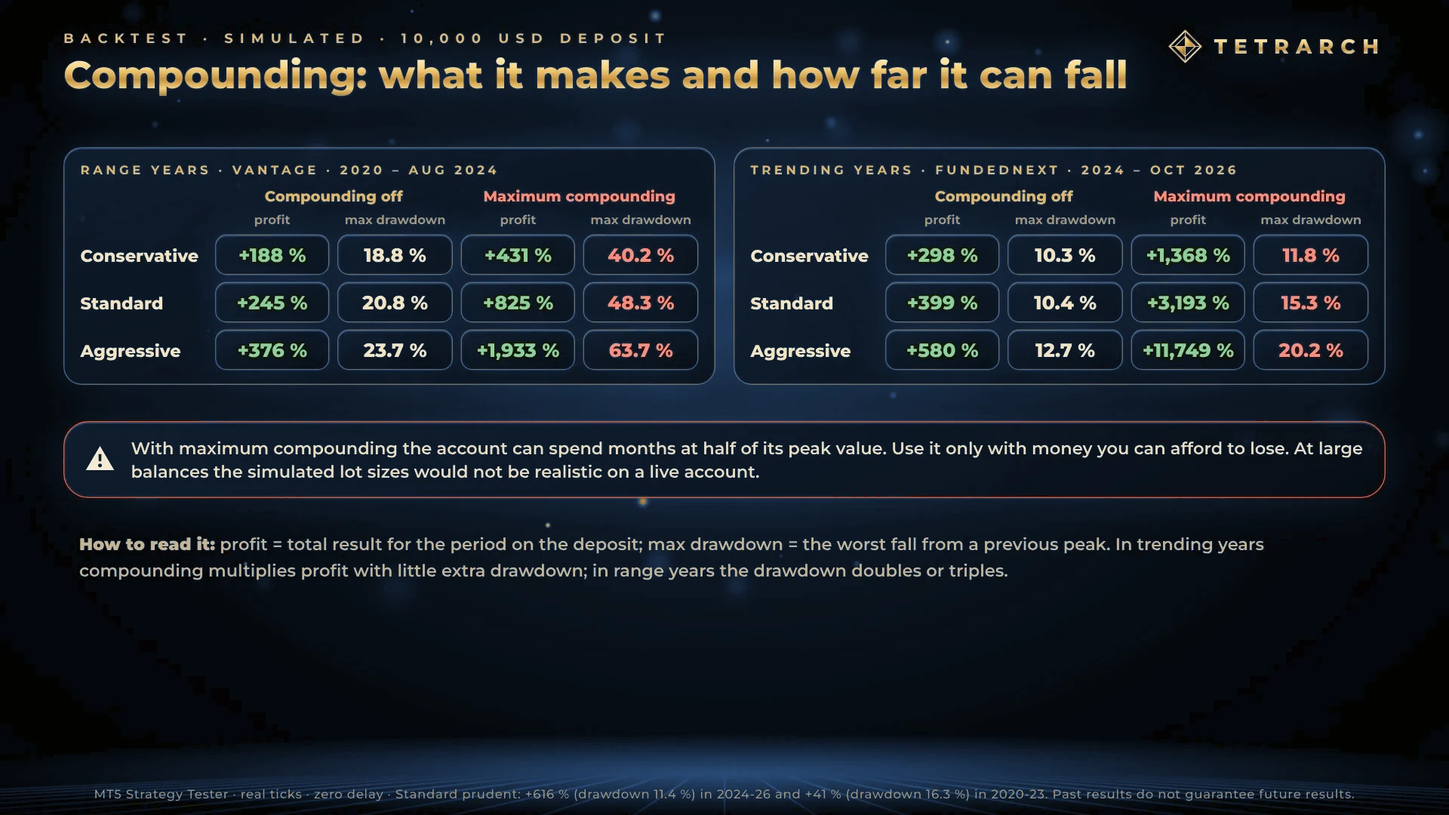
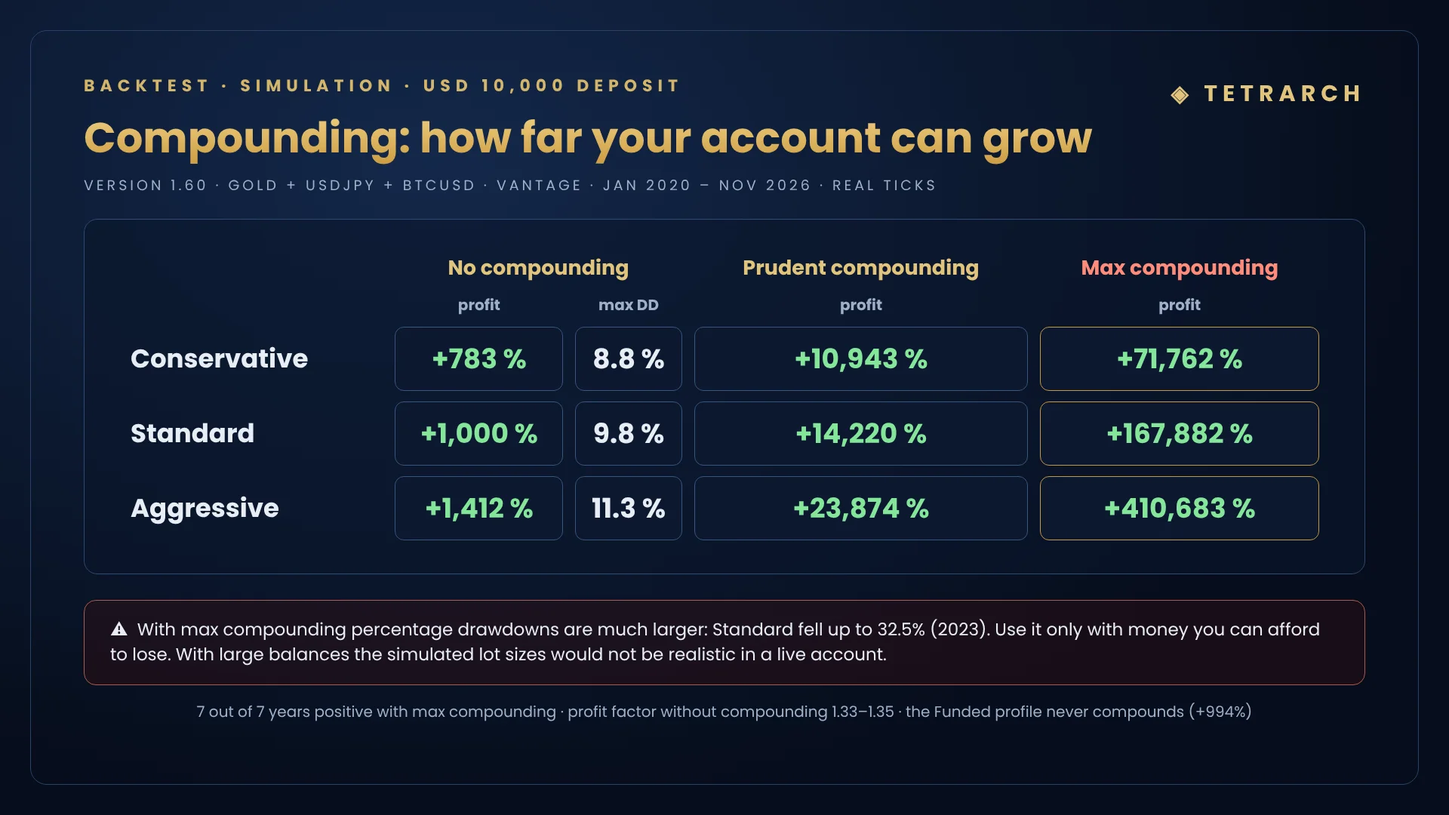
Web: imagen de interés compuesto con resultados 1.60
Claude-Session: https://claude.ai/code/session_01U5C84pqPQePsUARTQHAiew

diff --git a/index.html b/index.html
@@ -84,7 +84,7 @@ else if(h.indexOf('meli.la')>=0||h.indexOf('mercadolibre')>=0)fbq('track','Initi
 <div class="tcard"><strong data-es="Al instante" data-en="Instantly">Al instante</strong><span data-es="la clave llega a tu email con el instalador" data-en="the key arrives by email with the installer">la clave llega a tu email con el instalador</span></div>
 </div></div></div></section>
 <section class="section" id="product"><div class="wrap"><div class="section-head"><div class="eyebrow" data-es="UN SOLO PRODUCTO" data-en="ONE INTEGRATED PRODUCT">UN SOLO PRODUCTO</div><h2 data-es="Diseñado como un <span class='gold'>sistema integrado</span>." data-en="Designed as <span class='gold'>one integrated system</span>.">Diseñado como un <span class="gold">sistema integrado</span>.</h2><p data-es="Cuatro estrategias en el oro y, desde la versión 1.60, dos sub-estrategias que aplican la lógica de rango de sesión a USDJPY y BTCUSD. Todas forman parte de una misma solución: el cliente elige un perfil de riesgo y el bot hace el resto." data-en="Four gold strategies and, since version 1.60, two sub-strategies that apply the session-range logic to USDJPY and BTCUSD. They all belong to one solution: the customer picks a risk profile and the EA does the rest.">Cuatro estrategias en el oro y, desde la versión 1.60, dos sub-estrategias que aplican la lógica de rango de sesión a USDJPY y BTCUSD. Todas forman parte de una misma solución: el cliente elige un perfil de riesgo y el bot hace el resto.</p></div><div class="feature-grid"><div><img class="feature-img" data-src-en="/img/img04.webp" data-src-es="/img/img05.webp" alt="Descripción general del funcionamiento integrado de Tetrarch"></div><div><h3 data-es="Una operativa integrada, distintos niveles de exposición" data-en="One integrated system, different levels of exposure">Una operativa integrada, distintos niveles de exposición</h3><ul class="bullets"><li data-es="Cuatro estrategias y dos sub-estrategias en un único EA: oro, USDJPY y BTCUSD." data-en="Four strategies and two sub-strategies in a single EA: gold, USDJPY and BTCUSD.">Cuatro estrategias y dos sub-estrategias en un único EA: oro, USDJPY y BTCUSD.</li><li data-es="Perfiles que ajustan el riesgo y los límites de pérdida." data-en="Profiles adjust risk and loss limits.">Perfiles que ajustan el riesgo y los límites de pérdida.</li><li data-es="Stop loss en cada operación; sin martingala ni grid, según la documentación del producto." data-en="Stop loss on every trade; no martingale or grid, according to the product documentation.">Stop loss en cada operación; sin martingala ni grid, según la documentación del producto.</li><li data-es="Resultados evaluados mediante backtests con ticks reales." data-en="Results evaluated through real-tick backtests.">Resultados evaluados mediante backtests con ticks reales.</li></ul><a class="btn secondary" href="#results" data-es="Consultar pruebas" data-en="Review tests">Consultar pruebas</a></div></div></div></section>
-<section class="section" id="profiles"><div class="wrap"><div class="section-head"><div class="eyebrow" data-es="ELEGÍ SEGÚN TU TOLERANCIA AL RIESGO" data-en="CHOOSE ACCORDING TO YOUR RISK TOLERANCE">ELEGÍ SEGÚN TU TOLERANCIA AL RIESGO</div><h2 data-es="Cuatro perfiles. <span class='gold'>El mismo sistema.</span>" data-en="Four profiles. <span class='gold'>The same system.</span>">Cuatro perfiles. <span class="gold">El mismo sistema.</span></h2><p data-es="Los perfiles utilizan las mismas estrategias y operaciones. Cambian el riesgo por operación y los límites de pérdida. Las cifras de riesgo son aproximadas; los resultados de cada tarjeta son backtests anteriores a la versión 1.60." data-en="All profiles use the same strategies and trades. Per-trade risk and loss limits change. Risk figures are approximate; the results on each card are backtests prior to version 1.60.">Los perfiles utilizan las mismas estrategias y operaciones. Cambian el riesgo por operación y los límites de pérdida. Las cifras de riesgo son aproximadas; los resultados de cada tarjeta son backtests anteriores a la versión 1.60.</p></div><div class="grid4"><article class="card"><span class="pill red" data-es="Mayor riesgo" data-en="Higher risk">Mayor riesgo</span><h3 data-es="Arriesgado" data-en="Aggressive">Arriesgado</h3><div class="metric">≈ 2,25%</div><div class="small-label" data-es="Riesgo base por operación" data-en="Base risk per trade">Riesgo base por operación</div><p data-es="Límite diario: 4,5%. Puede tener caídas más profundas y prolongadas." data-en="Daily limit: 4.5%. May experience deeper and longer drawdowns.">Límite diario: 4,5%. Puede tener caídas más profundas y prolongadas.</p><div class="small-label" data-es="Backtest ene–ago 2026 · Vantage" data-en="Backtest Jan–Aug 2026 · Vantage">Backtest ene–ago 2026 · Vantage</div><p><strong class="gold">+33.631 USD</strong> · PF 1,91 · DD máx. 15,8%</p></article><article class="card"><span class="pill" data-es="Perfil base" data-en="Baseline profile">Perfil base</span><h3 data-es="Estándar" data-en="Standard">Estándar</h3><div class="metric">≈ 1,5%</div><div class="small-label" data-es="Riesgo base por operación" data-en="Base risk per trade">Riesgo base por operación</div><p data-es="Límite diario: 3%. Perfil por defecto y usado en los backtests largos." data-en="Daily limit: 3%. Default profile used in long backtests.">Límite diario: 3%. Perfil por defecto y usado en los backtests largos.</p><div class="small-label" data-es="Backtest ene–ago 2026 · Libertex" data-en="Backtest Jan–Aug 2026 · Libertex">Backtest ene–ago 2026 · Libertex</div><p><strong class="gold">+22.056 USD</strong> · PF 1,94 · DD máx. 11,2%</p></article><article class="card"><span class="pill green" data-es="Menor riesgo" data-en="Lower risk">Menor riesgo</span><h3 data-es="Conservador" data-en="Conservative">Conservador</h3><div class="metric">≈ 1,1%</div><div class="small-label" data-es="Riesgo base por operación" data-en="Base risk per trade">Riesgo base por operación</div><p data-es="Límite diario: 2,25%. Para quienes priorizan caídas más pequeñas." data-en="Daily limit: 2.25%. For users who prioritize smaller drawdowns.">Límite diario: 2,25%. Para quienes priorizan caídas más pequeñas.</p><div class="small-label" data-es="Backtest ene–ago 2026 · Vantage" data-en="Backtest Jan–Aug 2026 · Vantage">Backtest ene–ago 2026 · Vantage</div><p><strong class="gold">+15.083 USD</strong> · PF 1,84 · DD máx. 7,0%</p></article><article class="card"><span class="pill" data-es="Para cuentas de fondeo" data-en="For funded accounts">Para cuentas de fondeo</span><h3 data-es="Fondeo" data-en="Funded account">Fondeo</h3><div class="metric">≈ 0,6%</div><div class="small-label" data-es="Riesgo inicial por operación" data-en="Initial risk per trade">Riesgo inicial por operación</div><p data-es="Límite diario propio: 2%. Freno total: 7,5%, pensado para reglas de pérdida total del 8%." data-en="Own daily limit: 2%. Total stop: 7.5%, designed for an 8% maximum-loss rule.">Límite diario propio: 2%. Freno total: 7,5%, pensado para reglas de pérdida total del 8%.</p><div class="small-label" data-es="Simulaciones de primer cobro" data-en="First-payout simulations">Simulaciones de primer cobro</div><p><strong class="gold">18/18</strong> <span data-es="FundedNext 2024–2026 llegaron al primer cobro simulado" data-en="FundedNext 2024–2026 reached the simulated first payout">FundedNext 2024–2026 llegaron al primer cobro simulado</span></p></article></div><div class="compound-block"><div class="eyebrow" data-es="INTERÉS COMPUESTO · DESDE LA VERSIÓN 1.47" data-en="COMPOUNDING · SINCE VERSION 1.47">INTERÉS COMPUESTO · DESDE LA VERSIÓN 1.47</div><h3 class="compound-title" data-es="Interés compuesto <span class='gold'>opcional</span>" data-en="Optional <span class='gold'>compounding</span>">Interés compuesto <span class="gold">opcional</span></h3><p class="compound-lead" data-es="Tres modos —Apagado, Prudente y Máximo— para los perfiles Conservador, Estándar y Arriesgado. El perfil Fondeo no cambia." data-en="Three modes —Off, Prudent and Maximum— for the Conservative, Standard and Aggressive profiles. The Funded profile does not change.">Tres modos —Apagado, Prudente y Máximo— para los perfiles Conservador, Estándar y Arriesgado. El perfil Fondeo no cambia.</p><div class="compound-grid"><article class="result"><a class="zoom-link" data-zoom href="/img/perfiles-es.webp" target="_blank" rel="noopener"><img data-src-es="/img/perfiles-es.webp" data-src-en="/img/perfiles-en.webp" width="1920" height="1080" loading="lazy" alt="Tabla de perfiles de Tetrarch (Conservador, Estándar, Arriesgado y Fondeo) y modos de interés compuesto: Apagado, Prudente y Máximo"></a></article><article class="result"><a class="zoom-link" data-zoom href="/img/compuesto-es.webp" target="_blank" rel="noopener"><img data-src-es="/img/compuesto-es.webp" data-src-en="/img/compuesto-en.webp" width="1920" height="1080" loading="lazy" alt="Backtests con y sin interés compuesto por perfil: ganancia y caída máxima en años de rango y de tendencia"></a><div class="result-body"><p data-es="Backtests simulados en el Probador de estrategias de MetaTrader 5, con ticks reales y un depósito de 10.000 USD. Con interés compuesto Máximo se midieron caídas de entre el 40 % y el 65 % en años de rango. Úsalo solo con dinero que puedas perder." data-en="Simulated backtests in the MetaTrader 5 Strategy Tester, with real ticks and a USD 10,000 deposit. With Maximum compounding, drawdowns of 40% to 65% were measured in range years. Use it only with money you can afford to lose.">Backtests simulados en el Probador de estrategias de MetaTrader 5, con ticks reales y un depósito de 10.000 USD. Con interés compuesto Máximo se midieron caídas de entre el 40 % y el 65 % en años de rango. Úsalo solo con dinero que puedas perder.</p></div></article></div><div class="faq compound-notes"><details open><summary data-es="Qué cambió en la versión 1.60" data-en="What changed in version 1.60">Qué cambió en la versión 1.60</summary><ul class="bullets"><li data-es="Dos sub-estrategias nuevas: la estrategia de rango de sesión ahora opera también USDJPY y BTCUSD, además del oro. Sirven para sumar en otros mercados cuando el oro está lateral." data-en="Two new sub-strategies: the session-range strategy now also trades USDJPY and BTCUSD, besides gold. They add results in other markets when gold is ranging.">Dos sub-estrategias nuevas: la estrategia de rango de sesión ahora opera también USDJPY y BTCUSD, además del oro. Sirven para sumar en otros mercados cuando el oro está lateral.</li><li data-es="El bot encuentra solo el nombre del símbolo en cada broker (por ejemplo BTCUSD.sc o USDJPYc)." data-en="The EA finds each broker's symbol name by itself (for example BTCUSD.sc or USDJPYc).">El bot encuentra solo el nombre del símbolo en cada broker (por ejemplo BTCUSD.sc o USDJPYc).</li><li data-es="USDJPY y BTCUSD respetan el perfil y el modo de interés compuesto, igual que el oro." data-en="USDJPY and BTCUSD follow the profile and compounding mode, just like gold.">USDJPY y BTCUSD respetan el perfil y el modo de interés compuesto, igual que el oro.</li><li data-es="Backtests más rápidos en el Probador de estrategias de MetaTrader 5, con las mismas operaciones." data-en="Faster backtests in the MetaTrader 5 Strategy Tester, with the same trades.">Backtests más rápidos en el Probador de estrategias de MetaTrader 5, con las mismas operaciones.</li></ul></details><details><summary data-es="Qué cambió en las versiones 1.46 y 1.47" data-en="What changed in versions 1.46 and 1.47">Qué cambió en las versiones 1.46 y 1.47</summary><ul class="bullets"><li data-es="Nuevo ajuste «Interés compuesto» en los perfiles Conservador, Estándar y Arriesgado: Apagado (por defecto), Prudente o Máximo." data-en="New “Compound interest” setting for the Conservative, Standard and Aggressive profiles: Off (default), Prudent or Maximum.">Nuevo ajuste «Interés compuesto» en los perfiles Conservador, Estándar y Arriesgado: Apagado (por defecto), Prudente o Máximo.</li><li data-es="Con interés compuesto, el límite diario sube 1,5 veces de forma automática. El perfil Fondeo no cambia." data-en="With compounding on, the daily limit automatically rises 1.5×. The Funded profile does not change.">Con interés compuesto, el límite diario sube 1,5 veces de forma automática. El perfil Fondeo no cambia.</li><li data-es="Momentum: al llegar a 3 veces el riesgo, asegura la ganancia y deja correr la operación con un stop que sigue al precio (antes cerraba en 3R)." data-en="Momentum: at 3× the risk it locks in profit and lets the trade run with a trailing stop (it used to close at 3R).">Momentum: al llegar a 3 veces el riesgo, asegura la ganancia y deja correr la operación con un stop que sigue al precio (antes cerraba en 3R).</li><li data-es="El gráfico muestra el perfil, el modo de interés compuesto y el límite diario activos." data-en="The chart shows the active profile, compounding mode and daily limit.">El gráfico muestra el perfil, el modo de interés compuesto y el límite diario activos.</li><li data-es="Versión 1.47: el límite de pérdida diaria ya no se configura; se ajusta automáticamente según el perfil y el modo de interés compuesto. Solo elegís el perfil y el interés compuesto." data-en="Version 1.47: the daily loss limit is no longer an input; it is set automatically from the profile and the compounding mode. You only choose the profile and the compounding mode.">Versión 1.47: el límite de pérdida diaria ya no se configura; se ajusta automáticamente según el perfil y el modo de interés compuesto. Solo elegís el perfil y el interés compuesto.</li><li data-es="Si no cambiás el nuevo ajuste, el EA funciona como antes, salvo la mejora de Momentum." data-en="If you leave the new setting unchanged, the EA works as before, apart from the Momentum improvement.">Si no cambiás el nuevo ajuste, el EA funciona como antes, salvo la mejora de Momentum.</li></ul></details></div><p class="zoom-hint" data-es="Tocá una imagen para verla en tamaño completo." data-en="Tap an image to view it at full size.">Tocá una imagen para verla en tamaño completo.</p></div><div class="callout" data-es="Importante: las simulaciones de fondeo no garantizan aprobar una evaluación ni recibir pagos. Cada firma tiene sus propias reglas sobre EAs; verificá las condiciones antes de usarlo." data-en="Important: funded-account simulations do not guarantee passing an evaluation or receiving payouts. Each firm has its own EA rules; verify them before use.">Importante: las simulaciones de fondeo no garantizan aprobar una evaluación ni recibir pagos. Cada firma tiene sus propias reglas sobre EAs; verificá las condiciones antes de usarlo.</div></div></section>
+<section class="section" id="profiles"><div class="wrap"><div class="section-head"><div class="eyebrow" data-es="ELEGÍ SEGÚN TU TOLERANCIA AL RIESGO" data-en="CHOOSE ACCORDING TO YOUR RISK TOLERANCE">ELEGÍ SEGÚN TU TOLERANCIA AL RIESGO</div><h2 data-es="Cuatro perfiles. <span class='gold'>El mismo sistema.</span>" data-en="Four profiles. <span class='gold'>The same system.</span>">Cuatro perfiles. <span class="gold">El mismo sistema.</span></h2><p data-es="Los perfiles utilizan las mismas estrategias y operaciones. Cambian el riesgo por operación y los límites de pérdida. Las cifras de riesgo son aproximadas; los resultados de cada tarjeta son backtests anteriores a la versión 1.60." data-en="All profiles use the same strategies and trades. Per-trade risk and loss limits change. Risk figures are approximate; the results on each card are backtests prior to version 1.60.">Los perfiles utilizan las mismas estrategias y operaciones. Cambian el riesgo por operación y los límites de pérdida. Las cifras de riesgo son aproximadas; los resultados de cada tarjeta son backtests anteriores a la versión 1.60.</p></div><div class="grid4"><article class="card"><span class="pill red" data-es="Mayor riesgo" data-en="Higher risk">Mayor riesgo</span><h3 data-es="Arriesgado" data-en="Aggressive">Arriesgado</h3><div class="metric">≈ 2,25%</div><div class="small-label" data-es="Riesgo base por operación" data-en="Base risk per trade">Riesgo base por operación</div><p data-es="Límite diario: 4,5%. Puede tener caídas más profundas y prolongadas." data-en="Daily limit: 4.5%. May experience deeper and longer drawdowns.">Límite diario: 4,5%. Puede tener caídas más profundas y prolongadas.</p><div class="small-label" data-es="Backtest ene–ago 2026 · Vantage" data-en="Backtest Jan–Aug 2026 · Vantage">Backtest ene–ago 2026 · Vantage</div><p><strong class="gold">+33.631 USD</strong> · PF 1,91 · DD máx. 15,8%</p></article><article class="card"><span class="pill" data-es="Perfil base" data-en="Baseline profile">Perfil base</span><h3 data-es="Estándar" data-en="Standard">Estándar</h3><div class="metric">≈ 1,5%</div><div class="small-label" data-es="Riesgo base por operación" data-en="Base risk per trade">Riesgo base por operación</div><p data-es="Límite diario: 3%. Perfil por defecto y usado en los backtests largos." data-en="Daily limit: 3%. Default profile used in long backtests.">Límite diario: 3%. Perfil por defecto y usado en los backtests largos.</p><div class="small-label" data-es="Backtest ene–ago 2026 · Libertex" data-en="Backtest Jan–Aug 2026 · Libertex">Backtest ene–ago 2026 · Libertex</div><p><strong class="gold">+22.056 USD</strong> · PF 1,94 · DD máx. 11,2%</p></article><article class="card"><span class="pill green" data-es="Menor riesgo" data-en="Lower risk">Menor riesgo</span><h3 data-es="Conservador" data-en="Conservative">Conservador</h3><div class="metric">≈ 1,1%</div><div class="small-label" data-es="Riesgo base por operación" data-en="Base risk per trade">Riesgo base por operación</div><p data-es="Límite diario: 2,25%. Para quienes priorizan caídas más pequeñas." data-en="Daily limit: 2.25%. For users who prioritize smaller drawdowns.">Límite diario: 2,25%. Para quienes priorizan caídas más pequeñas.</p><div class="small-label" data-es="Backtest ene–ago 2026 · Vantage" data-en="Backtest Jan–Aug 2026 · Vantage">Backtest ene–ago 2026 · Vantage</div><p><strong class="gold">+15.083 USD</strong> · PF 1,84 · DD máx. 7,0%</p></article><article class="card"><span class="pill" data-es="Para cuentas de fondeo" data-en="For funded accounts">Para cuentas de fondeo</span><h3 data-es="Fondeo" data-en="Funded account">Fondeo</h3><div class="metric">≈ 0,6%</div><div class="small-label" data-es="Riesgo inicial por operación" data-en="Initial risk per trade">Riesgo inicial por operación</div><p data-es="Límite diario propio: 2%. Freno total: 7,5%, pensado para reglas de pérdida total del 8%." data-en="Own daily limit: 2%. Total stop: 7.5%, designed for an 8% maximum-loss rule.">Límite diario propio: 2%. Freno total: 7,5%, pensado para reglas de pérdida total del 8%.</p><div class="small-label" data-es="Simulaciones de primer cobro" data-en="First-payout simulations">Simulaciones de primer cobro</div><p><strong class="gold">18/18</strong> <span data-es="FundedNext 2024–2026 llegaron al primer cobro simulado" data-en="FundedNext 2024–2026 reached the simulated first payout">FundedNext 2024–2026 llegaron al primer cobro simulado</span></p></article></div><div class="compound-block"><div class="eyebrow" data-es="INTERÉS COMPUESTO · DESDE LA VERSIÓN 1.47" data-en="COMPOUNDING · SINCE VERSION 1.47">INTERÉS COMPUESTO · DESDE LA VERSIÓN 1.47</div><h3 class="compound-title" data-es="Interés compuesto <span class='gold'>opcional</span>" data-en="Optional <span class='gold'>compounding</span>">Interés compuesto <span class="gold">opcional</span></h3><p class="compound-lead" data-es="Tres modos —Apagado, Prudente y Máximo— para los perfiles Conservador, Estándar y Arriesgado. El perfil Fondeo no cambia." data-en="Three modes —Off, Prudent and Maximum— for the Conservative, Standard and Aggressive profiles. The Funded profile does not change.">Tres modos —Apagado, Prudente y Máximo— para los perfiles Conservador, Estándar y Arriesgado. El perfil Fondeo no cambia.</p><div class="compound-grid"><article class="result"><a class="zoom-link" data-zoom href="/img/perfiles-es.webp" target="_blank" rel="noopener"><img data-src-es="/img/perfiles-es.webp" data-src-en="/img/perfiles-en.webp" width="1920" height="1080" loading="lazy" alt="Tabla de perfiles de Tetrarch (Conservador, Estándar, Arriesgado y Fondeo) y modos de interés compuesto: Apagado, Prudente y Máximo"></a></article><article class="result"><a class="zoom-link" data-zoom href="/img/compuesto-es.webp" target="_blank" rel="noopener"><img data-src-es="/img/compuesto-es.webp" data-src-en="/img/compuesto-en.webp" width="1920" height="1080" loading="lazy" alt="Backtests con y sin interés compuesto por perfil: versión 1.60, 2020–2026"></a><div class="result-body"><p data-es="Versión 1.60 (oro + USDJPY + BTCUSD), Vantage, enero 2020 – noviembre 2026, ticks reales y depósito de 10.000 USD. Con interés compuesto Máximo las caídas son mayores (el Estándar llegó a 32,5 % en 2023). Úsalo solo con dinero que puedas perder." data-en="Version 1.60 (gold + USDJPY + BTCUSD), Vantage, Jan 2020 – Nov 2026, real ticks and a USD 10,000 deposit. With Maximum compounding drawdowns are larger (Standard reached 32.5% in 2023). Use it only with money you can afford to lose.">Versión 1.60 (oro + USDJPY + BTCUSD), Vantage, enero 2020 – noviembre 2026, ticks reales y depósito de 10.000 USD. Con interés compuesto Máximo las caídas son mayores (el Estándar llegó a 32,5 % en 2023). Úsalo solo con dinero que puedas perder.</p></div></article></div><div class="faq compound-notes"><details open><summary data-es="Qué cambió en la versión 1.60" data-en="What changed in version 1.60">Qué cambió en la versión 1.60</summary><ul class="bullets"><li data-es="Dos sub-estrategias nuevas: la estrategia de rango de sesión ahora opera también USDJPY y BTCUSD, además del oro. Sirven para sumar en otros mercados cuando el oro está lateral." data-en="Two new sub-strategies: the session-range strategy now also trades USDJPY and BTCUSD, besides gold. They add results in other markets when gold is ranging.">Dos sub-estrategias nuevas: la estrategia de rango de sesión ahora opera también USDJPY y BTCUSD, además del oro. Sirven para sumar en otros mercados cuando el oro está lateral.</li><li data-es="El bot encuentra solo el nombre del símbolo en cada broker (por ejemplo BTCUSD.sc o USDJPYc)." data-en="The EA finds each broker's symbol name by itself (for example BTCUSD.sc or USDJPYc).">El bot encuentra solo el nombre del símbolo en cada broker (por ejemplo BTCUSD.sc o USDJPYc).</li><li data-es="USDJPY y BTCUSD respetan el perfil y el modo de interés compuesto, igual que el oro." data-en="USDJPY and BTCUSD follow the profile and compounding mode, just like gold.">USDJPY y BTCUSD respetan el perfil y el modo de interés compuesto, igual que el oro.</li><li data-es="Backtests más rápidos en el Probador de estrategias de MetaTrader 5, con las mismas operaciones." data-en="Faster backtests in the MetaTrader 5 Strategy Tester, with the same trades.">Backtests más rápidos en el Probador de estrategias de MetaTrader 5, con las mismas operaciones.</li></ul></details><details><summary data-es="Qué cambió en las versiones 1.46 y 1.47" data-en="What changed in versions 1.46 and 1.47">Qué cambió en las versiones 1.46 y 1.47</summary><ul class="bullets"><li data-es="Nuevo ajuste «Interés compuesto» en los perfiles Conservador, Estándar y Arriesgado: Apagado (por defecto), Prudente o Máximo." data-en="New “Compound interest” setting for the Conservative, Standard and Aggressive profiles: Off (default), Prudent or Maximum.">Nuevo ajuste «Interés compuesto» en los perfiles Conservador, Estándar y Arriesgado: Apagado (por defecto), Prudente o Máximo.</li><li data-es="Con interés compuesto, el límite diario sube 1,5 veces de forma automática. El perfil Fondeo no cambia." data-en="With compounding on, the daily limit automatically rises 1.5×. The Funded profile does not change.">Con interés compuesto, el límite diario sube 1,5 veces de forma automática. El perfil Fondeo no cambia.</li><li data-es="Momentum: al llegar a 3 veces el riesgo, asegura la ganancia y deja correr la operación con un stop que sigue al precio (antes cerraba en 3R)." data-en="Momentum: at 3× the risk it locks in profit and lets the trade run with a trailing stop (it used to close at 3R).">Momentum: al llegar a 3 veces el riesgo, asegura la ganancia y deja correr la operación con un stop que sigue al precio (antes cerraba en 3R).</li><li data-es="El gráfico muestra el perfil, el modo de interés compuesto y el límite diario activos." data-en="The chart shows the active profile, compounding mode and daily limit.">El gráfico muestra el perfil, el modo de interés compuesto y el límite diario activos.</li><li data-es="Versión 1.47: el límite de pérdida diaria ya no se configura; se ajusta automáticamente según el perfil y el modo de interés compuesto. Solo elegís el perfil y el interés compuesto." data-en="Version 1.47: the daily loss limit is no longer an input; it is set automatically from the profile and the compounding mode. You only choose the profile and the compounding mode.">Versión 1.47: el límite de pérdida diaria ya no se configura; se ajusta automáticamente según el perfil y el modo de interés compuesto. Solo elegís el perfil y el interés compuesto.</li><li data-es="Si no cambiás el nuevo ajuste, el EA funciona como antes, salvo la mejora de Momentum." data-en="If you leave the new setting unchanged, the EA works as before, apart from the Momentum improvement.">Si no cambiás el nuevo ajuste, el EA funciona como antes, salvo la mejora de Momentum.</li></ul></details></div><p class="zoom-hint" data-es="Tocá una imagen para verla en tamaño completo." data-en="Tap an image to view it at full size.">Tocá una imagen para verla en tamaño completo.</p></div><div class="callout" data-es="Importante: las simulaciones de fondeo no garantizan aprobar una evaluación ni recibir pagos. Cada firma tiene sus propias reglas sobre EAs; verificá las condiciones antes de usarlo." data-en="Important: funded-account simulations do not guarantee passing an evaluation or receiving payouts. Each firm has its own EA rules; verify them before use.">Importante: las simulaciones de fondeo no garantizan aprobar una evaluación ni recibir pagos. Cada firma tiene sus propias reglas sobre EAs; verificá las condiciones antes de usarlo.</div></div></section>
 <section class="section" id="results"><div class="wrap"><div class="section-head"><div class="eyebrow" data-es="RESULTADOS DOCUMENTADOS" data-en="DOCUMENTED RESULTS">RESULTADOS DOCUMENTADOS</div><h2 data-es="Mostramos también <span class='gold'>los límites</span>." data-en="We show <span class='gold'>the limitations</span>, too.">Mostramos también <span class="gold">los límites</span>.</h2><p data-es="Backtests en el Probador de estrategias de MetaTrader 5. Los resultados dependen del período, broker, spread, comisión y ejecución." data-en="Backtests in the MetaTrader 5 Strategy Tester. Results depend on the period, broker, spread, commission and execution.">Backtests en el Probador de estrategias de MetaTrader 5. Los resultados dependen del período, broker, spread, comisión y ejecución.</p></div><div class="results-grid"><article class="result"><img data-src-en="/img/img06.jpg" data-src-es="/img/img07.jpg" alt="Backtest del perfil estándar de enero a agosto de 2026"><div class="result-body"><h3 data-es="Perfil Estándar · ene–ago 2026" data-en="Standard profile · Jan–Aug 2026">Perfil Estándar · ene–ago 2026</h3><p data-es="Libertex · Depósito inicial 10.000 USD · ticks reales · sin interés compuesto. Ganancia neta +22.056 USD, profit factor 1,94, drawdown máximo 11,2%, 370 operaciones." data-en="Libertex · Initial deposit USD 10,000 · real ticks · no compounding. Net profit +USD 22,056, profit factor 1.94, max drawdown 11.2%, 370 trades.">Libertex · Depósito inicial 10.000 USD · ticks reales · sin interés compuesto. Ganancia neta +22.056 USD, profit factor 1,94, drawdown máximo 11,2%, 370 operaciones.</p></div></article><article class="result"><img data-src-en="/img/img08.jpg" data-src-es="/img/img09.jpg" alt="Backtest del perfil arriesgado de enero a agosto de 2026"><div class="result-body"><h3 data-es="Perfil Arriesgado · ene–ago 2026" data-en="Aggressive profile · Jan–Aug 2026">Perfil Arriesgado · ene–ago 2026</h3><p data-es="Vantage · Depósito inicial 10.000 USD · ticks reales · sin interés compuesto. Ganancia neta +33.631 USD, profit factor 1,91, drawdown máximo 15,8%, 382 operaciones." data-en="Vantage · Initial deposit USD 10,000 · real ticks · no compounding. Net profit +USD 33,631, profit factor 1.91, max drawdown 15.8%, 382 trades.">Vantage · Depósito inicial 10.000 USD · ticks reales · sin interés compuesto. Ganancia neta +33.631 USD, profit factor 1,91, drawdown máximo 15,8%, 382 operaciones.</p></div></article></div><div class="callout" data-es="Largo plazo, versión 1.60 (oro + USDJPY + BTCUSD): en el backtest Estándar sin interés compuesto de casi 7 años (Vantage, enero 2020 – noviembre 2026, 7.279 operaciones, depósito de 10.000 USD) la ganancia fue de +99.970 USD, con profit factor 1,34. Con interés compuesto máximo, los 7 años terminaron positivos (desde +30% en 2023 hasta +535% en 2026), con caídas de hasta 32,5%. Las pruebas son simulaciones; los resultados reales pueden ser peores y las rentabilidades pasadas no garantizan resultados futuros." data-en="Long term, version 1.60 (gold + USDJPY + BTCUSD): in the almost 7-year Standard backtest without compounding (Vantage, Jan 2020 – Nov 2026, 7,279 trades, USD 10,000 deposit) net profit was +USD 99,970 with a profit factor of 1.34. With maximum compounding all 7 years were positive (from +30% in 2023 to +535% in 2026), with drawdowns of up to 32.5%. These are simulations; live results can be worse and past performance does not guarantee future results.">Largo plazo, versión 1.60 (oro + USDJPY + BTCUSD): en el backtest Estándar sin interés compuesto de casi 7 años (Vantage, enero 2020 – noviembre 2026, 7.279 operaciones, depósito de 10.000 USD) la ganancia fue de +99.970 USD, con profit factor 1,34. Con interés compuesto máximo, los 7 años terminaron positivos (desde +30% en 2023 hasta +535% en 2026), con caídas de hasta 32,5%. Las pruebas son simulaciones; los resultados reales pueden ser peores y las rentabilidades pasadas no garantizan resultados futuros.</div></div></section>
 <section class="section"><div class="wrap feature-grid"><div><div class="eyebrow" data-es="ANTES DE COMPRAR" data-en="BEFORE YOU BUY">ANTES DE COMPRAR</div><h2 data-es="Probalo en tu propio <span class='gold'>MetaTrader 5</span>." data-en="Test it in your own <span class='gold'>MetaTrader 5</span>.">Probalo en tu propio <span class="gold">MetaTrader 5</span>.</h2><p style="color:var(--muted)" data-es="Pedí tu clave gratis y usá Tetrarch en tu cuenta: sin límite en demo y 14 días en una cuenta real, antes de decidir la compra." data-en="Get your free key and run Tetrarch on your own account: unlimited on demo and 14 days on a live account, before you decide to buy.">Pedí tu clave gratis y usá Tetrarch en tu cuenta: sin límite en demo y 14 días en una cuenta real, antes de decidir la compra.</p><ol class="bullets"><li data-es="Dejá tu email y recibí la clave al instante." data-en="Leave your email and get your key instantly.">Dejá tu email y recibí la clave al instante.</li><li data-es="Descargá el instalador y pegá la clave." data-en="Download the installer and paste the key.">Descargá el instalador y pegá la clave.</li><li data-es="Ponelo en un gráfico de XAUUSD, elegí el perfil y miralo operar." data-en="Attach it to an XAUUSD chart, choose the profile and watch it trade.">Ponelo en un gráfico de XAUUSD, elegí el perfil y miralo operar.</li></ol><a class="btn" href="/prueba.html" data-cta="before-buy-trial" data-es="Pedir mi clave gratis" data-en="Get my free key">Pedir mi clave gratis</a> <a class="btn secondary" target="_blank" rel="noopener" href="https://www.mql5.com/es/market/product/203924?source=Site+Profile+Seller" data-cta="before-buy" data-es="Ver en MQL5 ↗" data-en="View on MQL5 ↗">Ver en MQL5 ↗</a></div><a class="demo-image-link" href="/prueba.html" data-cta="trial-image" aria-label="Probar Tetrarch gratis"><img class="feature-img" data-src-es="/img/img10.webp" data-src-en="/img/img11.webp" src="/img/img10.webp" alt="Tocá para probar Tetrarch gratis"></a></div></section>
 <div class="wrap"><div class="creator"><img src="/img/gustavo.jpg" alt="Gustavo Meuli" width="96" height="96"><div><p data-es="“Hola, soy <b>Gustavo</b>, desarrollador de Tetrarch en Argentina. Lo construí para operar oro con reglas claras y sin miedo a quemar la cuenta. Cada cambio se prueba con ticks reales antes de publicarse. Si tenés dudas antes o después de comprar, te respondo yo.”" data-en="“Hi, I'm <b>Gustavo</b>, Tetrarch's developer in Argentina. I built it to trade gold with clear rules and without fear of blowing the account. Every change is tested on real ticks before release. If you have questions before or after buying, I answer them myself.”">“Hola, soy <b>Gustavo</b>, desarrollador de Tetrarch en Argentina. Lo construí para operar oro con reglas claras y sin miedo a quemar la cuenta. Cada cambio se prueba con ticks reales antes de publicarse. Si tenés dudas antes o después de comprar, te respondo yo.”</p><a class="mail" href="mailto:tetrarchbot@gmail.com">tetrarchbot@gmail.com</a></div></div></div>
